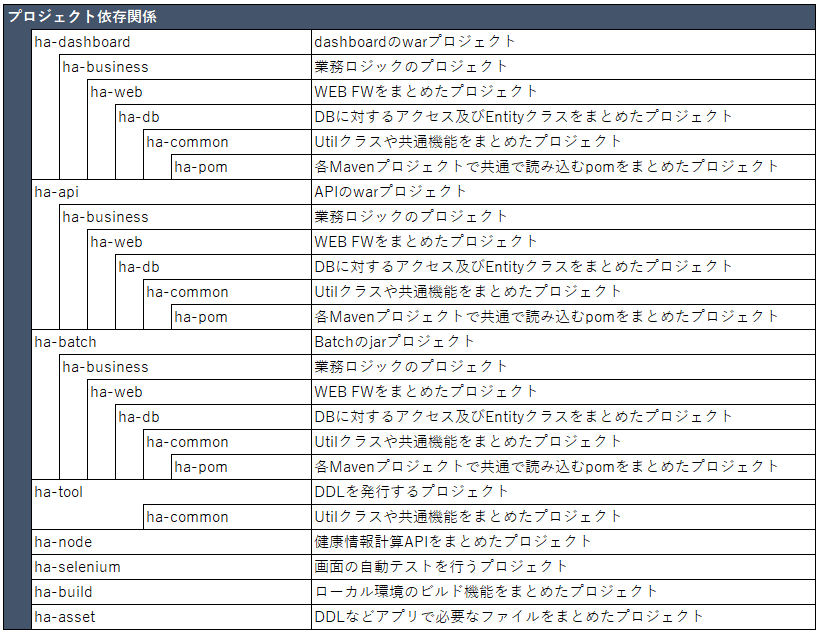
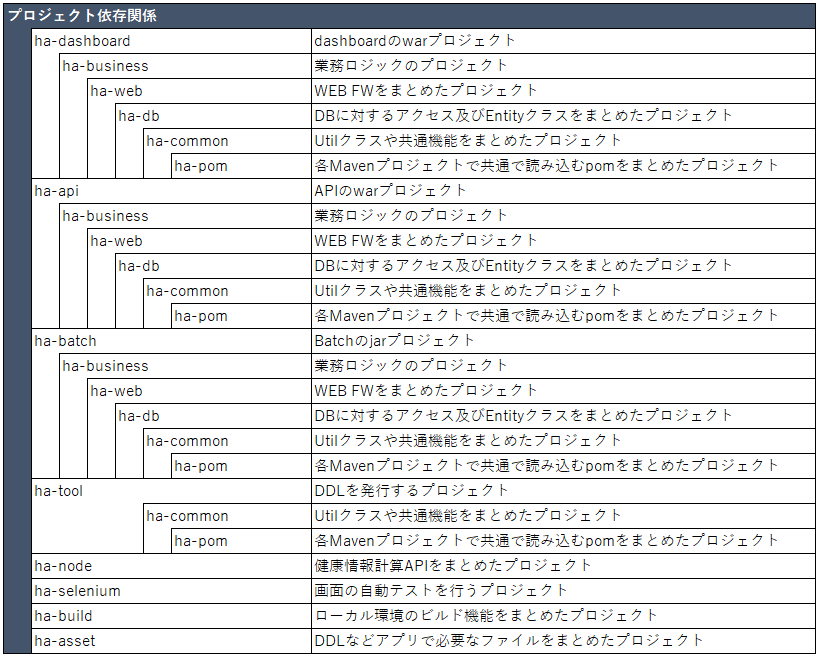
プロジェクト構成図を最新化

Changed region(s): [[0.0, 0.0, 1.0, 1.0]]

diff --git a/ha-asset/99_tool/menu/html/wiki/envBuildingProcedure.html b/ha-asset/99_tool/menu/html/wiki/envBuildingProcedure.html
@@ -224,12 +224,42 @@
 
                   <div class="col-10">
                     <details>
-                      <summary>スキーマ設定</summary>
+                      <summary>ユーザとパスワードを設定</summary>
                       <p>以下のファイルのuserとpasswordにインストール時に指定したものを設定</p>
                       <kbd>ha-common/profile/local/jdbc.properties</kbd>
+                      <br><br>
+                      <table class="table">
+                        <thead class="thead-dark">
+                          <tr>
+                            <th scope="col">項目名</th>
+                            <th scope="col">設定値</th>
+                          </tr>
+                        </thead><!-- /.thead-dark -->
+                        <tbody>
+                          <tr>
+                            <td>jdbc.username</td>
+                            <td>MySQLインストール時に作成したユーザ名</td>
+                          </tr>
+                          <tr>
+                            <td>jdbc.password</td>
+                            <td>	MySQLインストール時に作成したパスワード</td>
+                          </tr>
+                        </tbody>
+                      </table>
                     </details>
                   </div><!-- /.col-10 -->
 
+                  <br>
+
+                  <div class="col-10">
+                    <details>
+                      <summary>データベース作成</summary>
+                      <p>「Windowsキー」押下、「mysql」と入力し以下画像のように「MySQL 8.0 Command Line Clinet」ツールを選択</p>
+                      <img src="../../png/mysql-command-line-client1.png" alt="mysqlツール作業画像1" title="mysqlツール作業画像1">
+                      <p>以下のファイルMySQLクライアントから実行し、データベース「work3g」を作成する</p>
+                      <kbd>/ha-asset/02_db/others/CREATE_DATABASE.sql</kbd>
+                    </details>
+                  </div><!-- /.col-10 -->
                 </div><!-- /.card card-body bg-light -->
               </div><!-- /#db-env-build-procedure /.collapse -->
             </td><!-- /.card-body -->

diff --git a/ha-asset/99_tool/menu/html/wiki/project.html b/ha-asset/99_tool/menu/html/wiki/project.html
@@ -20,21 +20,6 @@
 
     <div class="row">
       <div class="col-12">
-        <h3 class="h3">概要</h3>
-        <div>健康管理アプリのサブプロジェクトの依存関係図</div>
-      </div><!-- /.col-12 -->
-    </div><!-- /.row -->
-
-    <div class="row">
-      <div class="col-12">
-        <div>
-          <img src="../../png/project.png" alt="project依存関係図" title="project依存関係図">
-        </div>
-      </div><!-- /.col-12 -->
-    </div><!-- /.row -->
-    <br>
-    <div class="row">
-      <div class="col-12">
         <h3 class="h3">プロジェクト一覧</h3>
         <table class="table">
           <thead class="thead-dark">
@@ -114,6 +99,35 @@
         </table><!-- /.table -->
       </div><!-- /.col-12 -->
     </div><!-- /.row -->
+
+    <br>
+
+    <div class="row">
+      <div class="col-12">
+        <h3 class="h3">プロジェクト依存関係図</h3>
+        <img src="../../png/project.png" alt="project依存関係図" title="project依存関係図">
+      </div><!-- /.col-12 -->
+    </div><!-- /.row -->
+    <br>
+
+    <div class="row">
+      <div class="col-12">
+        <h3 class="h3">ローカル環境構成図</h3>
+        <img src="../../png/project-config-local.png" alt="ローカル環境構成図" title="ローカル環境構成図">
+      </div><!-- /.col-12 -->
+    </div><!-- /.row -->
+
+    <br>
+
+    <div class="row">
+      <div class="col-12">
+        <h3 class="h3">EC2環境構成図</h3>
+        <img src="../../png/project-config-ec2.png" alt="EC2環境構成図" title="EC2環境構成図">
+      </div><!-- /.col-12 -->
+    </div><!-- /.row -->
+
+    <br>
+
   </div><!-- /.container border shadow -->
 
   <br><br>
